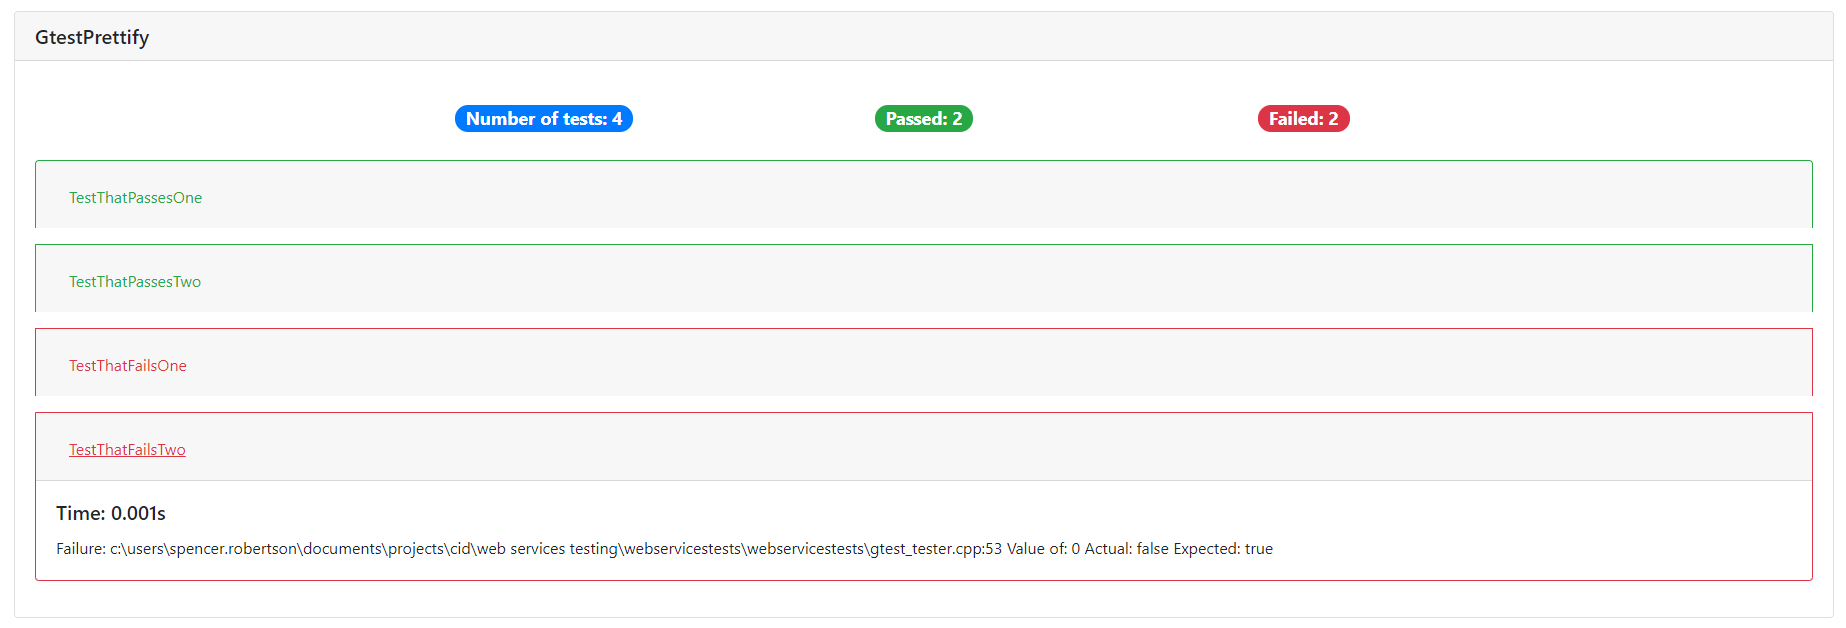
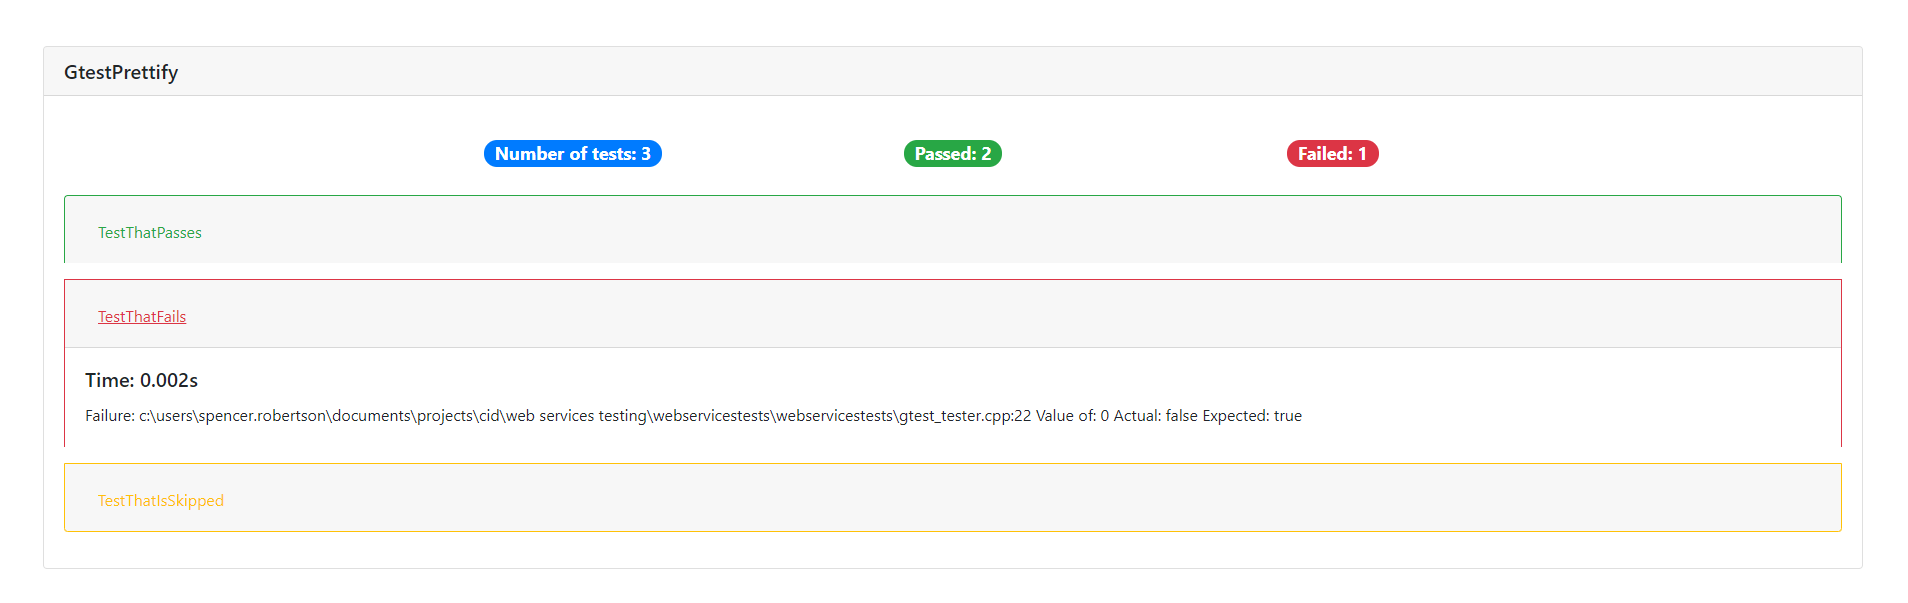
Added functionality for skipped tests

diff --git a/gtest_template.html b/gtest_template.html
@@ -69,6 +69,22 @@
                     </div>
                   </div>
                 </div>
+			  {% elif test.status == "SKIPPED" %}
+                <div class="card border-warning mb-3">
+                  <div class="card-header" id={{ test.name + "heading" }}>
+                    <h2 class="mb-0">
+                      <button class="btn btn-link text-warning" type="button" data-toggle="collapse" data-target={{"#" + test.name + "collapse"}} aria-expanded="false" aria-controls={{ test.name + "collapse"}}>
+                        {{ test.name }}
+                      </button>
+                    </h2>
+                  </div>
+
+                  <div id={{ test.name + "collapse" }} class="collapse" aria-labelledby={{ test.name + "heading" }} data-parent="#accordionExample">
+                    <div class="card-body">
+                      <h5 class="card-title">Skipped</h5>
+                    </div>
+                  </div>
+                </div>
               {% else %}
                 <div class="card border-success mb-3">
                   <div class="card-header" id={{ test.name + "heading" }}>

diff --git a/gtest_parser.py b/gtest_parser.py
@@ -44,7 +44,7 @@ def process_xml(xml):
         for test in child:
             testName = test.attrib['name']
             testTime = test.attrib['time']
-
+            testStatus = test.attrib['status']
             # Getting all of the failure messages
             testFailures = []
             for failure in test:
@@ -58,11 +58,13 @@ def process_xml(xml):
                 tempTest.append({
                     'name': testName,
                     'time': testTime,
+                    'status': testStatus,
                     'failures': testFailures
                 })
             else:
                 tempTest.append({
                     'name': testName,
+                    'status': testStatus,
                     'time': testTime
                 })
 
